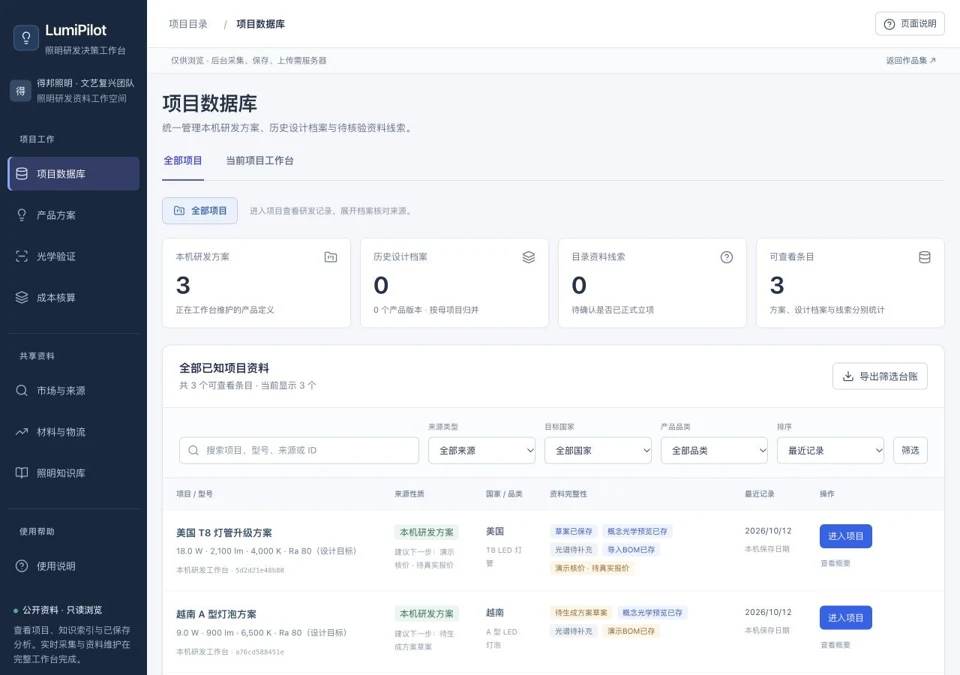
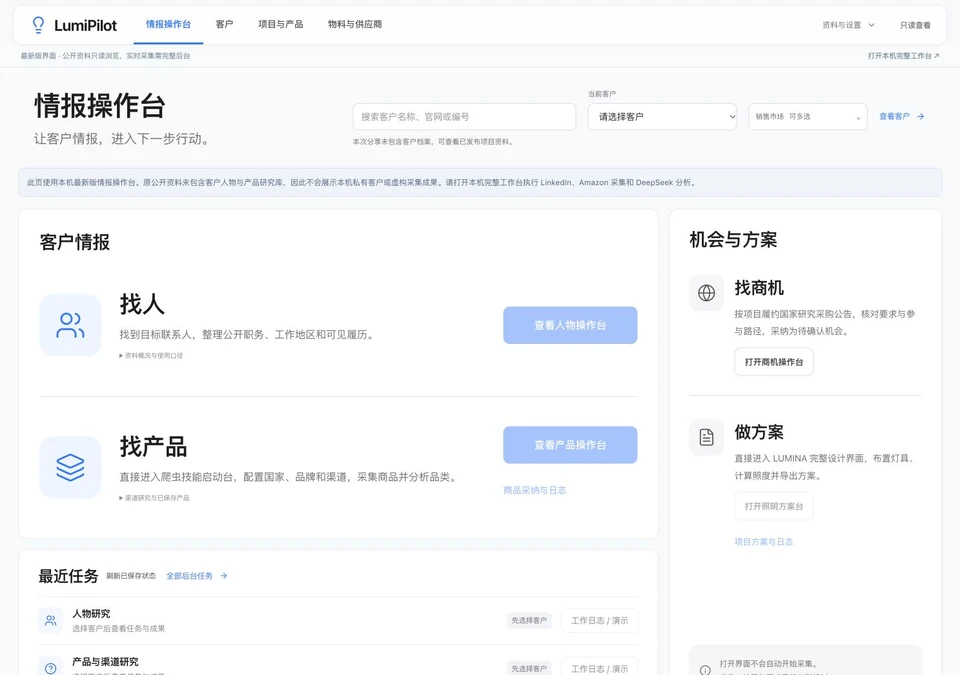
Refresh LumiPilot portfolio entry for the focused intelligence workspace

diff --git a/index.html b/index.html
@@ -41,14 +41,14 @@
   </div>
   <div class="collection-meta"><p id="project-results" role="status" aria-live="polite" aria-atomic="true">展示全部 8 个项目</p><span data-i18n="collectionHint">选择一个项目，继续探索</span></div>
   <div class="project-grid" id="project-grid">
-    <article class="project-card" id="lumipilot" data-category="research" data-keywords="LumiPilot OEM ODM BOM certification 研发 采购 国家准入 核价" aria-labelledby="lumi-title">
-      <div class="project-cover cover-lumi"><img src="./assets/lumipilot-preview.webp" alt="LumiPilot 项目数据库，包含研发方案、资料统计与筛选工作区" data-i18n-alt="lumiPreviewAlt" width="960" height="675" fetchpriority="high"/><span class="cover-label" lang="en">RESEARCH & DECISIONS</span></div>
+    <article class="project-card" id="lumipilot" data-category="research" data-keywords="LumiPilot OEM ODM BOM certification 研发 采购 产品研究 核价" aria-labelledby="lumi-title">
+      <div class="project-cover cover-lumi"><img src="./assets/lumipilot-preview.webp" alt="LumiPilot 情报操作台，左侧找人和找产品，右侧商机与照明方案" data-i18n-alt="lumiPreviewAlt" width="960" height="675" fetchpriority="high"/><span class="cover-label" lang="en">CUSTOMER INTELLIGENCE</span></div>
       <div class="project-content">
         <div class="project-topline"><span class="project-category" data-i18n="filterResearch">研发工具</span><span class="work-status status-auth" data-i18n="authStatus">账号密码登录</span></div>
-        <h2 id="lumi-title">LumiPilot</h2><p class="work-title" data-i18n="lumiTitle">照明研发与采购决策工作台</p>
-        <p class="project-summary" data-i18n="lumiSummary">连接市场资料、国家认证、光学验证与工程成本，让研发决策有据可查。</p>
-        <div class="tags" aria-label="项目领域" data-i18n-aria="tagsLabel"><span data-i18n="lightingRD">照明研发</span><span data-i18n="certification">国家准入</span><span data-i18n="engineeringCosts">工程核价</span></div>
-        <div class="project-bottom"><div class="work-actions"><a class="primary" href="./LumiPilot/#projects" data-lumi-link="./LumiPilot/#projects"><span data-i18n="enterLumi">进入 LumiPilot</span><span class="icon icon-arrow" aria-hidden="true"></span></a><a class="secondary" href="./LumiPilot/#help" data-lumi-link="./LumiPilot/#help" data-i18n="manual">使用说明</a></div><p class="view-note" data-i18n="lumiAccess">账号密码登录 · 浏览已保存资料与分析</p></div>
+        <h2 id="lumi-title">LumiPilot</h2><p class="work-title" data-i18n="lumiTitle">客户情报与照明方案工作台</p>
+        <p class="project-summary" data-i18n="lumiSummary">找人、找产品、找商机、做方案，以统一情报界面连接客户研究与照明工程。</p>
+        <div class="tags" aria-label="项目领域" data-i18n-aria="tagsLabel"><span data-i18n="lightingRD">客户情报</span><span data-i18n="certification">产品研究</span><span data-i18n="engineeringCosts">工程协作</span></div>
+        <div class="project-bottom"><div class="work-actions"><a class="primary" href="./LumiPilot/#workbench?view=intelligence" data-lumi-link="./LumiPilot/#workbench?view=intelligence"><span data-i18n="enterLumi">进入 LumiPilot</span><span class="icon icon-arrow" aria-hidden="true"></span></a><a class="secondary" href="./LumiPilot/#help" data-lumi-link="./LumiPilot/#help" data-i18n="manual">使用说明</a></div><p class="view-note" data-i18n="lumiAccess">账号密码登录 · 线上只读 · 实时采集在本机</p></div>
         <details class="project-details"><summary><span data-i18n="projectDetails">项目详情</span><span class="project-views" data-view-project="lumipilot" aria-busy="true" title="访问统计加载中"><span data-i18n="projectViews" aria-hidden="true">访问</span><span class="view-count" data-view-count aria-hidden="true">—</span><span class="sr-only" data-view-accessible>访问统计加载中</span></span></summary><div class="project-detail-content"><p class="mobile-access-note" data-i18n="lumiAccess"></p><p data-i18n="lumiDescription"></p><p class="date-note" id="publication-date" data-i18n="protectedStats">登录工作台后查看项目、资料与统计。</p></div></details>
       </div>
     </article>
@@ -143,7 +143,7 @@
       <section class="guide-chapter" aria-labelledby="guide-projects-title">
         <h3 id="guide-projects-title"><span class="guide-number" aria-hidden="true">02</span><span data-i18n="guideProjectsTitle">各项目怎样使用</span></h3>
         <div class="guide-projects">
-          <section class="guide-project"><h4>LumiPilot</h4><p data-i18n="guideLumi">使用账号和密码登录后，查看照明研发项目、市场资料、国家认证、光学与成本记录。当前版本保留只读浏览；实时采集、编辑和上传需要完整工作台。</p><a href="./LumiPilot/#help" data-lumi-link="./LumiPilot/#help" data-i18n="guideLumiLink">登录后查看工作台使用指南 ↗</a></section>
+          <section class="guide-project"><h4>LumiPilot</h4><p data-i18n="guideLumi">使用原账号密码登录后，浏览新版情报操作台与已发布项目资料。界面以找人、找产品为重点，商机与方案位于右侧。线上保持只读；人物与产品实时采集、TED 研究和 LUMINA 本机操作需要完整服务。</p><a href="./LumiPilot/#help" data-lumi-link="./LumiPilot/#help" data-i18n="guideLumiLink">登录后查看工作台使用指南 ↗</a></section>
           <section class="guide-project" id="guide-market" tabindex="-1"><h4 data-i18n="marketName">照明市场工作台</h4><p data-i18n="guideMarket">使用账号和密码登录，选择市场和品类运行样例采集，可暂停、继续并查看日志；也可导入 CSV，在当前浏览器计算规格、筛选和对比商品，完成问卷后生成规则建议并导出 CSV / Markdown。演示不执行实时采集或调用 DeepSeek。访问域名已调整，原域名保存的导入记录不会自动迁移，可先导出后再导入。</p><a href="./market-console/?lang=zh" data-market-link="./market-console/" data-i18n="guideMarketLink">登录照明市场工作台 ↗</a></section>
           <section class="guide-project"><h4>TOSPO</h4><p data-i18n="guideTospo">浏览公司介绍、户外灯具和工程案例。进入后使用网站账号和密码登录；访问权限由独立网站验证。</p><a href="./TP-outdoor-lighting/?lang=zh" data-tospo-link="./TP-outdoor-lighting/" data-i18n="guideTospoLink" data-i18n-aria="tospoVisitLabel" aria-label="访问 TOSPO 登录入口（账号密码登录）">前往账号登录入口 ↗</a></section>
           <section class="guide-project"><h4>LUMINA</h4><p data-i18n="guideLumina">选择场景或上传草图、地图。道路可离线提取并叠加核对；在“DeepSeek连接”输入演示访问码可在线规划、识别图片和补充参数。确认场地尺寸与AI假设后生成布灯、照度、节能成本及采购方案。支持产品导入、报告导出与方案打包；不提供应用下载，设备仅模拟。</p><a href="./LUMINA/" data-i18n="guideLuminaLink">进入在线演示 ↗</a></section>
@@ -161,7 +161,7 @@
     </div>
   </details>
 </section>
-<section aria-label="About Dayang" class="author-section" id="about" lang="en"><details class="author-details"><summary aria-controls="author-content" class="author-summary">About Dayang</summary><div class="author-content" id="author-content"><div class="author-identity"><h2 id="author-name">Dayang.Cao</h2><p class="author-role">Algorithm Engineer</p></div><div class="author-biography"><p class="intro-copy">I’m an Algorithm Engineer. I build web tools for lighting engineering, market research and procurement collaboration, including LumiPilot, Lighting Market Console, TOSPO Outdoor Lighting, LUMINA and the Chaiheng demo.</p><div class="author-notes"><p>My projects connect saved R&amp;D records, sample product comparison, outdoor lighting presentation and 3D IES analysis, street-map road tracing, reviewed building models, cloud-assisted lighting planning and lifecycle cost simulation. LUMINA now also offers a separate procurement demo for quantity-based MOQ tier pricing, high-efficacy upgrades, energy costs and payback comparisons using clearly labeled assumptions. Chaiheng maps sourced supplier catalogs into a shared parameter standard for typed cross-supplier search, source comparison and personal DeepSeek PDF imports. Quotation and negotiation workflows remain simulations; market references retain their source dates. I also explore browser-based PDF-to-CAD conversion, Vietnamese learning through VietQuest and single-player strategy in Clash of Dynasties.</p><p>I share selected work here, with each project’s current access and demonstration limits.</p><details class="recognition"><summary>A few milestones</summary><ol class="award-list">
+<section aria-label="About Dayang" class="author-section" id="about" lang="en"><details class="author-details"><summary aria-controls="author-content" class="author-summary">About Dayang</summary><div class="author-content" id="author-content"><div class="author-identity"><h2 id="author-name">Dayang.Cao</h2><p class="author-role">Algorithm Engineer</p></div><div class="author-biography"><p class="intro-copy">I’m an Algorithm Engineer. I build web tools for lighting engineering, market research and procurement collaboration, including LumiPilot, Lighting Market Console, TOSPO Outdoor Lighting, LUMINA and the Chaiheng demo.</p><div class="author-notes"><p>My projects connect saved R&amp;D records, sample product comparison, outdoor lighting presentation and 3D IES analysis, street-map road tracing, reviewed building models, cloud-assisted lighting planning and lifecycle cost simulation. LUMINA now also offers a separate procurement demo for quantity-based MOQ tier pricing, high-efficacy upgrades, energy costs and payback comparisons using clearly labeled assumptions. Chaiheng maps sourced supplier catalogs into a shared parameter standard for typed cross-supplier search, source comparison and personal DeepSeek PDF imports. Quotation and negotiation workflows remain simulations; market references retain their source dates. I also explore browser-based PDF-to-CAD conversion, Vietnamese learning through VietQuest and single-player strategy in Clash of Dynasties.</p><p>LumiPilot now brings people and product research, public lighting-procurement opportunities and local LUMINA design entry points into a focused workspace. Its online presentation retains account-based access and read-only records. I share selected work here, with each project’s current access and demonstration limits.</p><details class="recognition"><summary>A few milestones</summary><ol class="award-list">
 <li><time datetime="2024">2024</time><div><span class="award-prize">National Gold Award</span><h4>China International College Students’ Innovation Competition</h4></div></li>
 <li><time datetime="2023">2023</time><div><span class="award-prize">First Prize</span><h4>Zhejiang Province E-commerce Competition</h4></div></li>
 <li><time datetime="2022">2022</time><div><span class="award-prize">First Prize</span><h4>Zhejiang Province Quantitative Investment Competition</h4></div></li>

diff --git a/main.js b/main.js
@@ -44,14 +44,14 @@
     "works": "项目作品",
     "scope": "使用说明",
     "publicStatus": "可在线浏览",
-    "lumiTitle": "照明研发与采购决策工作台",
-    "lumiDescription": "以照明 OEM/ODM 产品为主线，将市场资料、国家认证、光学验证、电子 BOM 与制造成本连接在同一工作空间，帮助团队核对方案输入、资料依据和待确认事项。",
-    "lightingRD": "照明研发",
-    "certification": "国家准入",
-    "engineeringCosts": "工程核价",
+    "lumiTitle": "客户情报与照明方案工作台",
+    "lumiDescription": "本机整合领英人物研究、Amazon 等渠道产品采集、TED 照明采购公告和 LUMINA 照明设计入口，按客户与项目追溯来源、任务和版本。线上需账号密码登录，仅浏览已发布资料；实时采集、编辑与模型调用使用完整本机服务。",
+    "lightingRD": "客户情报",
+    "certification": "产品研究",
+    "engineeringCosts": "工程协作",
     "enterLumi": "进入 LumiPilot",
     "manual": "使用说明",
-    "lumiAccess": "账号密码登录 · 浏览已保存资料与分析",
+    "lumiAccess": "账号密码登录 · 线上只读 · 实时采集在本机",
     "projectCount": "已保存研发项目",
     "marketCount": "市场资料记录",
     "brandCount": "品牌与企业条目",
@@ -119,10 +119,10 @@
     "resetProjects": "清除筛选，查看全部",
     "resultsAll": "展示全部 {total} 个项目",
     "resultsFiltered": "找到 {count} / {total} 个项目",
-    "lumiSummary": "连接市场资料、国家认证、光学验证与工程成本，让研发决策有据可查。",
+    "lumiSummary": "找人、找产品、找商机、做方案，以统一情报界面连接客户研究与照明工程。",
     "tospoSummary": "从企业背景到户外灯具与工程案例，浏览产品系列及不同应用场景。",
     "luminaSummary": "从文字、草图和街区地图规划照明，核算 IES；独立采购页对比 MOQ 阶梯价、高光效升级、电费与回本期。",
-    "lumiPreviewAlt": "LumiPilot 项目数据库，包含研发方案、资料统计与筛选工作区",
+    "lumiPreviewAlt": "LumiPilot 情报操作台，左侧找人和找产品，右侧商机与照明方案",
     "personalStatus": "个人学习项目",
     "vietquestName": "越语冒险",
     "vietquestTitle": "越南语闯关学习系统",
@@ -163,7 +163,7 @@
     "guideBrowseStep2": "点击项目按钮进入应用；展开「项目详情」查看完整介绍与访问说明。",
     "guideBrowseStep3": "右上角可以切换中英文和深浅色主题。语言切换会保留当前筛选与关键词。",
     "guideProjectsTitle": "各项目怎样使用",
-    "guideLumi": "使用账号和密码登录后，查看照明研发项目、市场资料、国家认证、光学与成本记录。当前版本保留只读浏览；实时采集、编辑和上传需要完整工作台。",
+    "guideLumi": "使用原账号密码登录后，浏览新版情报操作台与已发布项目资料。界面以找人、找产品为重点，商机与方案位于右侧。线上保持只读；人物与产品实时采集、TED 研究和 LUMINA 本机操作需要完整服务。",
     "guideLumiLink": "登录后查看工作台使用指南 ↗",
     "guideTospo": "浏览公司介绍、户外灯具和工程案例。从项目入口打开账号登录页，登录页在新标签页打开；可回到项目入口返回作品集。",
     "guideTospoLink": "前往账号登录入口 ↗",
@@ -222,14 +222,14 @@
     "works": "Selected work",
     "scope": "User guide",
     "publicStatus": "Public preview",
-    "lumiTitle": "Lighting R&D and procurement decision workspace",
-    "lumiDescription": "A workspace connecting market research, certification requirements, optical analysis, electronic BOMs and manufacturing costs for lighting OEM/ODM products. It helps teams review inputs, supporting evidence and unresolved questions.",
-    "lightingRD": "Lighting R&D",
-    "certification": "Market access",
-    "engineeringCosts": "Engineering costs",
+    "lumiTitle": "Customer intelligence and lighting proposals",
+    "lumiDescription": "The local workspace joins public professional research, Amazon and channel collection, TED lighting-procurement notices and LUMINA design entry points. Customer and project records retain sources, task logs and scheme versions. The online portfolio requires an account and presents published records read-only; live collection and model calls use the full local services.",
+    "lightingRD": "Customer intelligence",
+    "certification": "Product research",
+    "engineeringCosts": "Engineering collaboration",
     "enterLumi": "Explore LumiPilot",
     "manual": "User guide",
-    "lumiAccess": "Account required · Saved records and analyses",
+    "lumiAccess": "Account required · Read-only online · Live collection runs locally",
     "projectCount": "Saved R&D projects",
     "marketCount": "Market records",
     "brandCount": "Brand & company entries",
@@ -297,10 +297,10 @@
     "resetProjects": "Clear filters and show all",
     "resultsAll": "Showing all {total} projects",
     "resultsFiltered": "{count} of {total} projects found",
-    "lumiSummary": "Connect market research, certification, optical analysis and engineering costs for traceable R&D decisions.",
+    "lumiSummary": "Find people, products and lighting opportunities, then develop proposals in one focused workspace.",
     "tospoSummary": "Explore company information, outdoor luminaires and project references across lighting applications.",
     "luminaSummary": "Plan lighting from text, sketches and street maps; compare MOQ price tiers, high-efficacy upgrades, energy bills and payback on a separate procurement page.",
-    "lumiPreviewAlt": "LumiPilot project database with R&D records, statistics and project filters",
+    "lumiPreviewAlt": "LumiPilot intelligence workspace with people and product research on the left and opportunities and lighting proposals on the right",
     "personalStatus": "Personal learning project",
     "vietquestName": "VietQuest",
     "vietquestTitle": "Vietnamese learning through levels",
@@ -341,7 +341,7 @@
     "guideBrowseStep2": "Use a project button to open the app. Expand Project details for its full description and access notes.",
     "guideBrowseStep3": "Switch the language or light/dark theme at the top right. Your current category and search stay in place when the language changes.",
     "guideProjectsTitle": "Using each project",
-    "guideLumi": "Sign in with the website account and password to browse lighting projects, market records, certifications, optics and costs. This version remains read-only; live collection, editing and uploads require the full workbench.",
+    "guideLumi": "Sign in with your existing account to browse the updated intelligence workspace and published project records. People and product research lead the interface, with opportunities and lighting proposals on the right. Online access remains read-only; live research and the local LUMINA workflow require the full services.",
     "guideLumiLink": "Sign in to read the workspace guide ↗",
     "guideTospo": "Explore company information, outdoor luminaires and project references. Open the account login in a new tab from the project entry page; return to that entry page to go back to the portfolio.",
     "guideTospoLink": "Open the TOSPO entry page ↗",

diff --git a/LumiPilot/index.html b/LumiPilot/index.html
@@ -1,2 +1,2 @@
 <!doctype html>
-<html lang="zh-CN"><head><meta charset="utf-8"><meta name="viewport" content="width=device-width,initial-scale=1"><meta name="robots" content="noindex,nofollow"><meta name="referrer" content="no-referrer"><title>LumiPilot · 线上登录</title><style>body{margin:0;min-height:100vh;display:grid;place-items:center;background:#f4f7fa;color:#19374c;font:16px/1.8 system-ui,sans-serif}main{max-width:560px;margin:24px;padding:36px;background:white;border:1px solid #dce6ed;border-radius:16px}h1{margin:0 0 12px;font-size:28px}a{color:#16777a;text-underline-offset:4px}a:focus-visible{outline:3px solid #1c9297;outline-offset:5px}.button{display:inline-block;padding:11px 20px;background:#16777a;color:white;border-radius:7px;text-decoration:none}small{display:block;margin-top:20px;color:#65798a}</style></head><body><main><h1>LumiPilot</h1><p id="message">正在进入线上登录。用户名与密码由本机 LumiPilot 的“线上账号设计台”管理。</p><a id="continue" class="button" href="https://dc-workspaces-access.dayang0509.chatgpt.site/LumiPilot/">进入 LumiPilot</a><small>如尚未设置账号，请在本机打开“资料与设置 → 账户与设置”。<br>If the page does not open automatically, use the button above.</small><p><a href="../?lang=zh#works">返回作品集 / Return to portfolio</a></p></main><script>(()=>{const target=new URL('https://dc-workspaces-access.dayang0509.chatgpt.site/LumiPilot/');target.search=location.search;target.hash=location.hash||'#workbench?view=intelligence';document.getElementById('continue').href=target.href;location.replace(target.href);})();</script></body></html>
+<html lang="zh-CN"><head><meta charset="utf-8"><meta name="viewport" content="width=device-width,initial-scale=1"><meta name="robots" content="noindex,nofollow"><meta name="referrer" content="no-referrer"><title>LumiPilot · 线上登录</title><style>body{margin:0;min-height:100vh;display:grid;place-items:center;background:#f5f5f7;color:#1d1d1f;font:16px/1.8 system-ui,sans-serif}main{max-width:560px;margin:24px;padding:36px;background:white;border:1px solid #e5e5ea;border-radius:16px}h1{margin:0 0 12px;font-size:28px}a{color:#007aff;text-underline-offset:4px}a:focus-visible{outline:3px solid #1c9297;outline-offset:5px}.button{display:inline-block;padding:11px 20px;background:#007aff;color:white;border-radius:7px;text-decoration:none}small{display:block;margin-top:20px;color:#65798a}</style></head><body><main><h1>LumiPilot</h1><p id="message">正在进入线上登录。用户名与密码由本机 LumiPilot 的“线上账号设计台”管理。登录后进入新版情报操作台。</p><a id="continue" class="button" href="https://dc-workspaces-access.dayang0509.chatgpt.site/LumiPilot/">进入 LumiPilot</a><small>如尚未设置账号，请在本机打开“资料与设置 → 账户与设置”。<br>If the page does not open automatically, use the button above.</small><p><a href="../?lang=zh#works">返回作品集 / Return to portfolio</a></p></main><script>(()=>{const target=new URL('https://dc-workspaces-access.dayang0509.chatgpt.site/LumiPilot/');target.search=location.search;target.hash=location.hash||'#workbench?view=intelligence';document.getElementById('continue').href=target.href;location.replace(target.href);})();</script></body></html>
